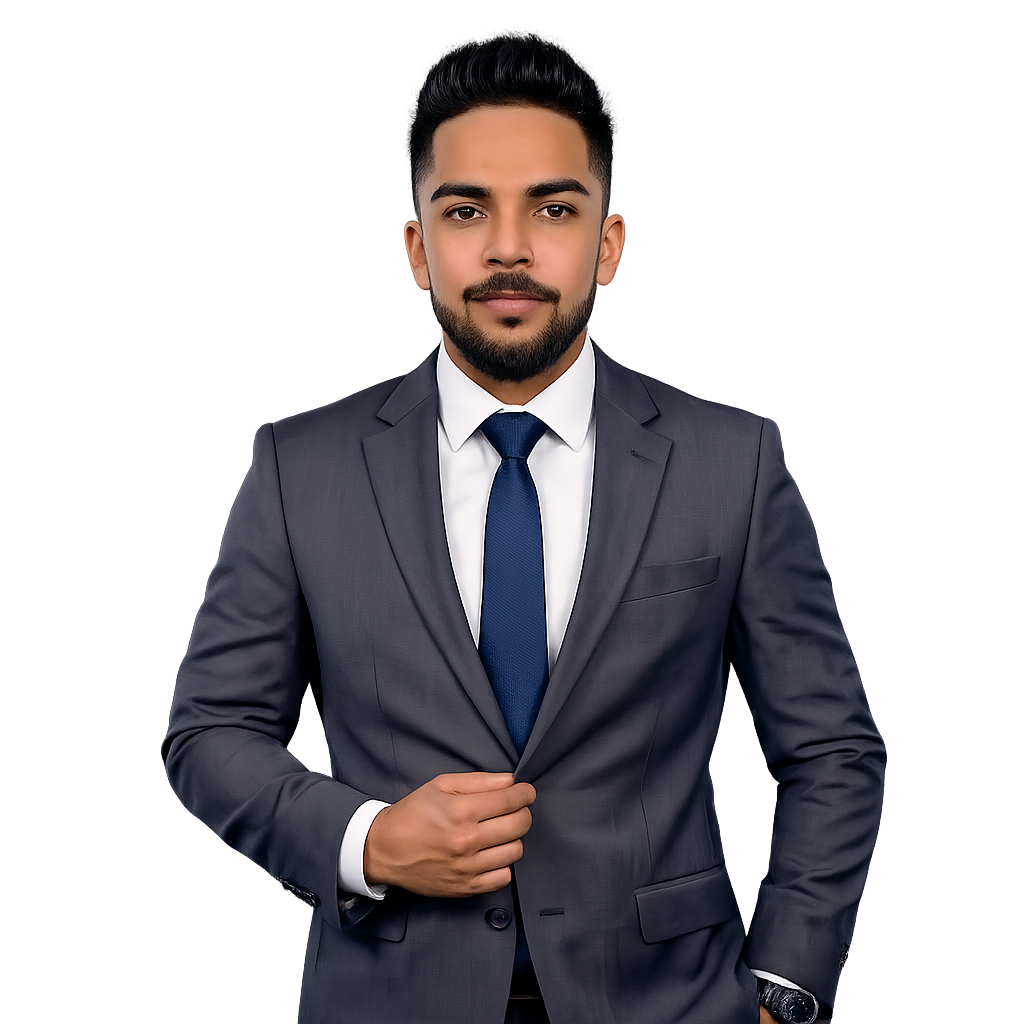
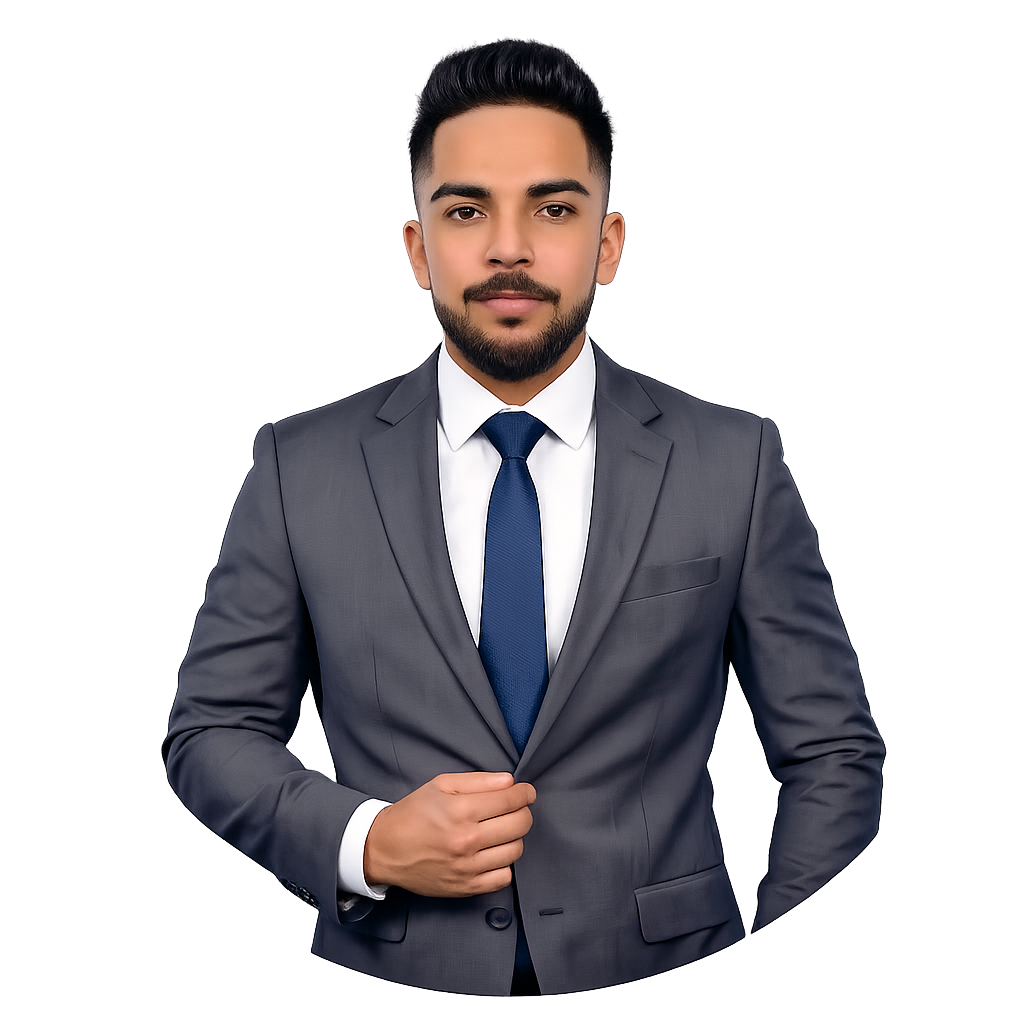
fix the pic issue

diff --git a/src/components/My.jsx b/src/components/My.jsx
@@ -1,7 +1,7 @@
 import React, { useState, useEffect } from 'react';
 import { Mail, Phone, ArrowUpRight } from 'lucide-react';
 import { motion } from "framer-motion";
-import profilePic from '../assets/mypic2.png'; 
+import profilePic from '../assets/MyPic.png'; 
 import myResume from '../assets/mycv.pdf';
 
 const roles = ["Full Stack Developer", "Designer", "Programmer", "Software Engineer"];
@@ -39,7 +39,7 @@ const My = () => {
 
   // --- HTML CODE ---
   return (
-    <div className="mt-15 min-h-screen w-full bg-[#0d0b16] text-white flex items-center justify-center px-6 md:px-20 relative overflow-hidden">
+    <div id='home' className="mt-15 min-h-screen w-full bg-[#0d0b16] text-white flex items-center justify-center px-6 md:px-20 relative overflow-hidden">
       
       {/* Container */}
       <div className="container mx-auto flex flex-col-reverse md:flex-row items-center justify-between gap-12 w-full z-10 py-12 md:py-0">

diff --git a/src/App.jsx b/src/App.jsx
@@ -1,16 +1,11 @@
 import React from 'react'
-import { div, main } from 'motion/react-client' // Keep if you use it, otherwise remove
+import { div, main } from 'motion/react-client' 
 import './App.css'
 
-// 1. FIXED IMPORT (No curly braces)
-import Tech from './components/Tech' 
 
-// Check these imports too! If they are 'export default', remove the { }
+import Tech from './components/Tech' 
 import Projects  from './components/Projects' 
 import Contact from './components/Contact'
-
-
-
 import My from './components/My'
 import Navbar from './components/Navbar'
 import Footer from './components/Footer'
@@ -31,9 +26,7 @@ function App() {
      
         
         <Navbar />
-  
-        
-        {/* Your Hero Section */}
+
         <My />
         
         {/* Your Tech Section */}
